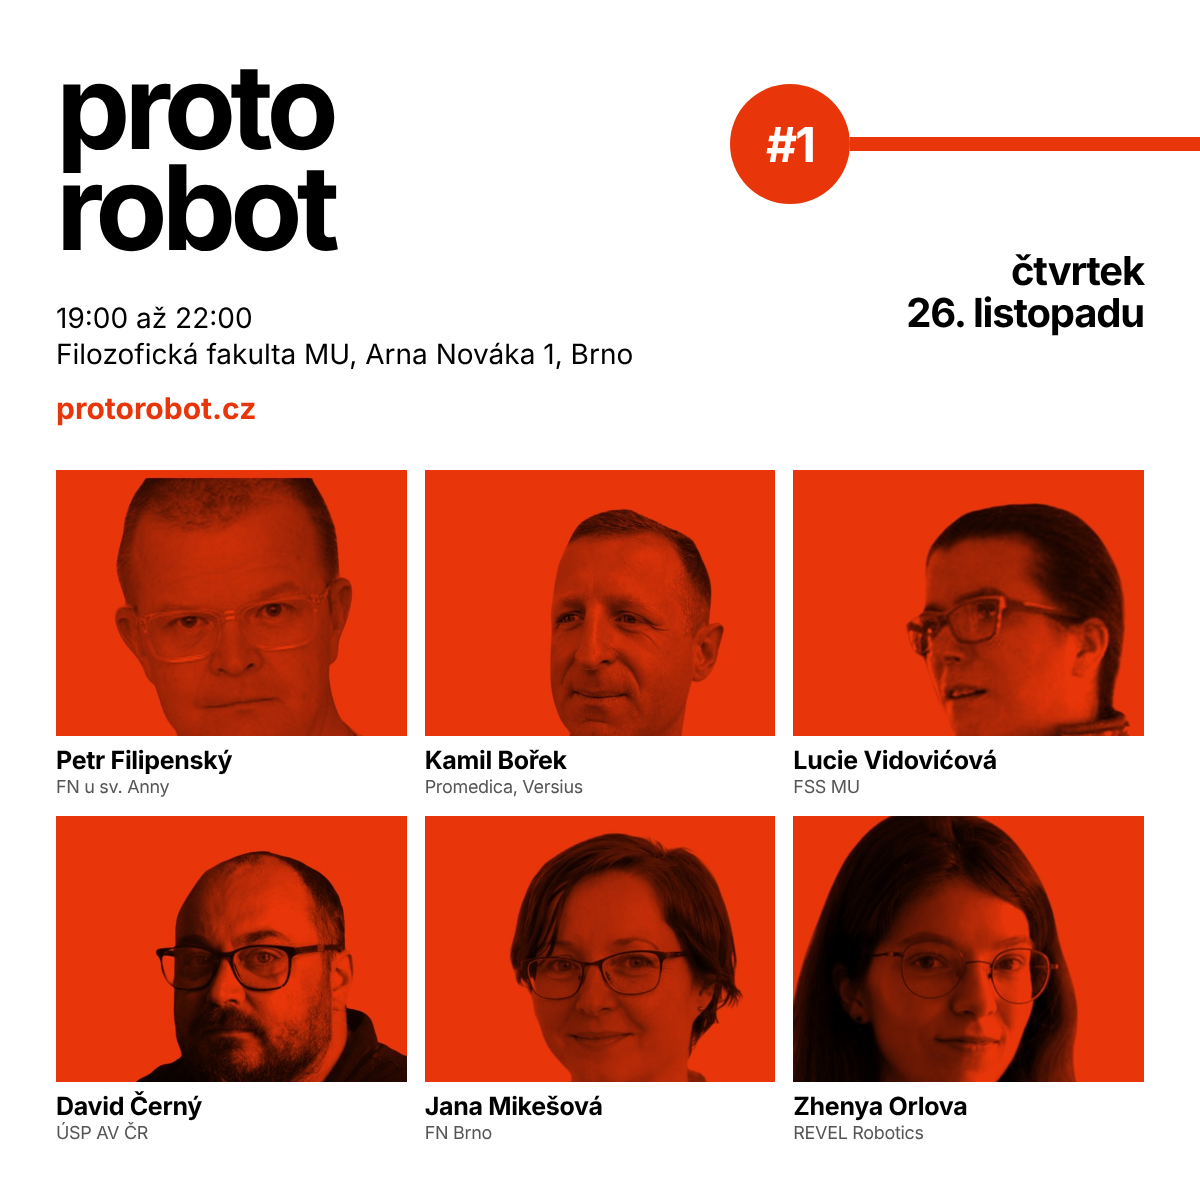
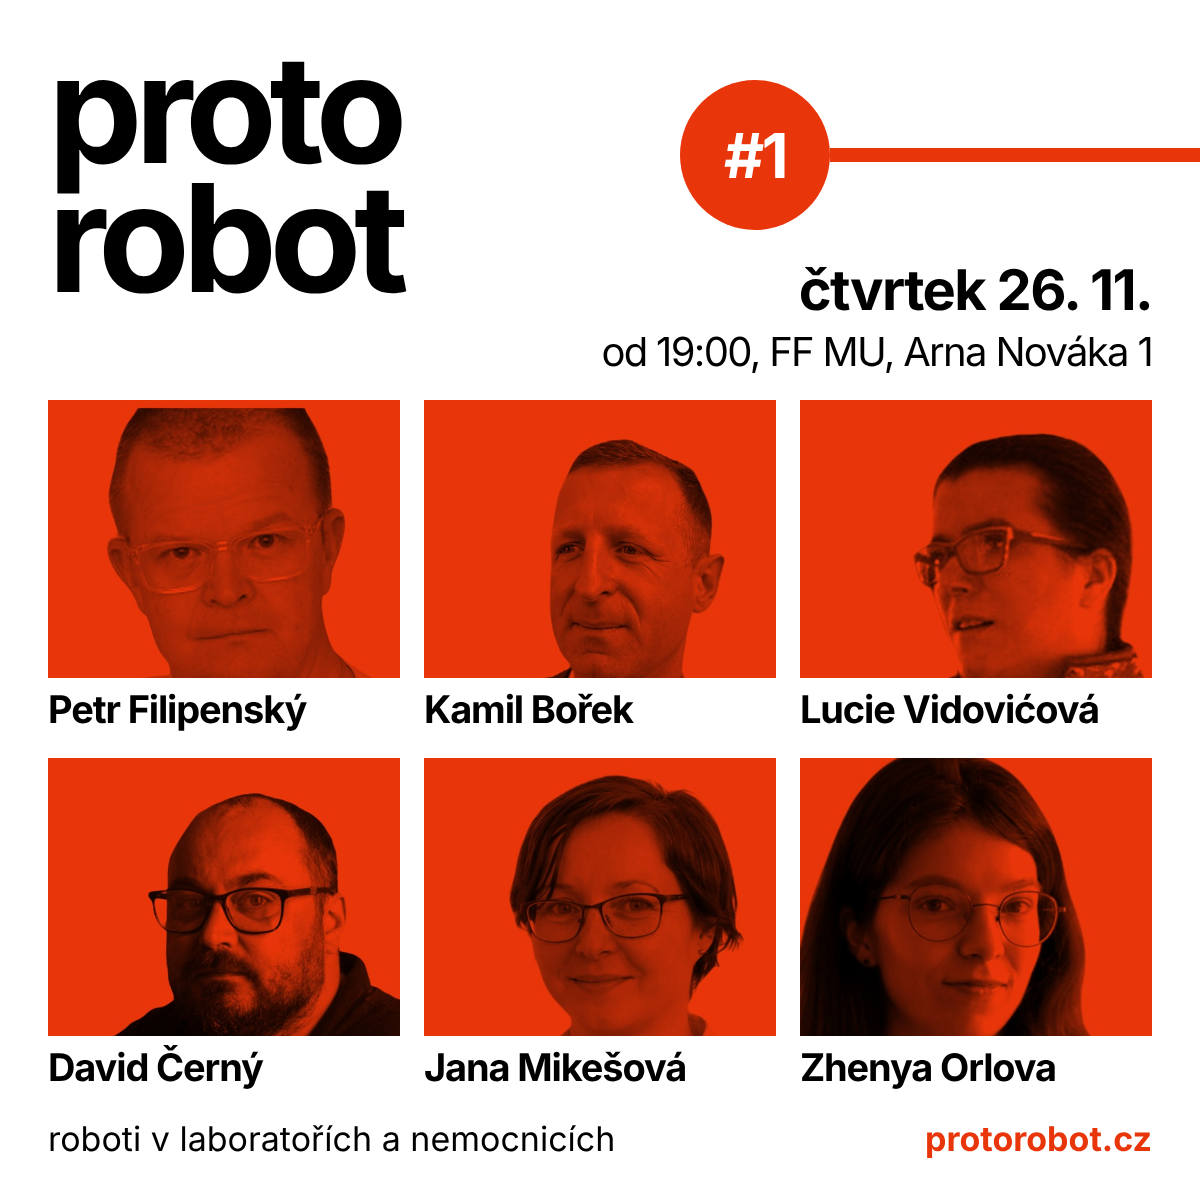
#1 Luma cover: larger type for thumbnails
Claude-Session: https://claude.ai/code/session_01UCnr32FKNaKDppzBLak19a

diff --git a/tools/pages/banner_1.py b/tools/pages/banner_1.py
@@ -54,21 +54,20 @@ body{{--w:1920px;--h:1080px}}
 
 SQUARE = f'''<!doctype html><meta charset="utf-8"><style>{CSS}
 body{{--w:1200px;--h:1200px}}
-.logo{{position:absolute;left:56px;top:56px;font-size:118px}}
-.rule{{right:0;top:84px;width:470px;flex-direction:row-reverse}}
-.rule b{{width:120px;height:120px;font-size:48px}}
-.when{{position:absolute;right:56px;top:250px;font-size:40px;text-align:right}}
-.meta{{position:absolute;left:56px;top:300px;font-size:28px;line-height:1.3}}
-.url{{position:absolute;left:56px;top:390px;font-size:30px}}
-.grid{{position:absolute;left:56px;top:470px;width:1088px;height:674px;grid-template-columns:repeat(3,1fr);grid-template-rows:repeat(2,1fr);gap:18px}}
-figcaption b{{font-size:25px}} figcaption span{{font-size:18px}} figcaption{{padding-top:10px}}
+.logo{{position:absolute;left:48px;top:44px;font-size:150px}}
+.rule{{right:0;top:80px;width:520px;flex-direction:row-reverse}}
+.rule b{{width:150px;height:150px;font-size:62px}}
+.when{{position:absolute;right:48px;top:262px;font-size:56px;text-align:right;line-height:1}}
+.grid{{position:absolute;left:48px;top:400px;width:1104px;height:690px;grid-template-columns:repeat(3,1fr);grid-template-rows:repeat(2,1fr);gap:26px 24px}}
+figcaption{{padding-top:10px}} figcaption b{{font-size:38px;letter-spacing:-.03em}} figcaption span{{display:none}}
+.meta{{position:absolute;left:48px;right:48px;bottom:40px;font-size:34px;line-height:1.2;display:flex;justify-content:space-between;align-items:baseline}}
+.meta .url{{position:static}}
 </style><body>
 <div class="logo">proto<br>robot</div>
 <div class="rule"><i></i><b>#1</b></div>
-<div class="when">čtvrtek<br>26. listopadu</div>
-<div class="meta">19:00 až 22:00<br>Filozofická fakulta MU, Arna Nováka 1, Brno</div>
-<div class="url">protorobot.cz</div>
+<div class="when">čtvrtek 26. 11.<br><span style="font-weight:400;font-size:40px">od 19:00, FF MU, Arna Nováka 1</span></div>
 <div class="grid">{cards}</div>
+<div class="meta"><span>roboti v laboratořích a nemocnicích</span><span class="url">protorobot.cz</span></div>
 '''
 
 out = root / 'brand/banners'
